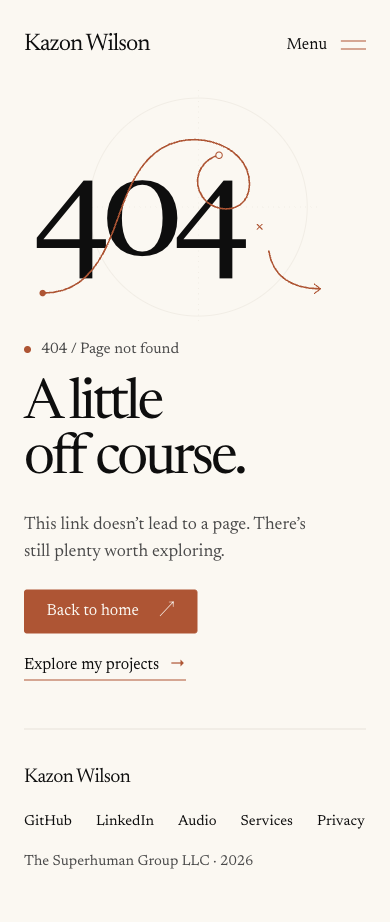
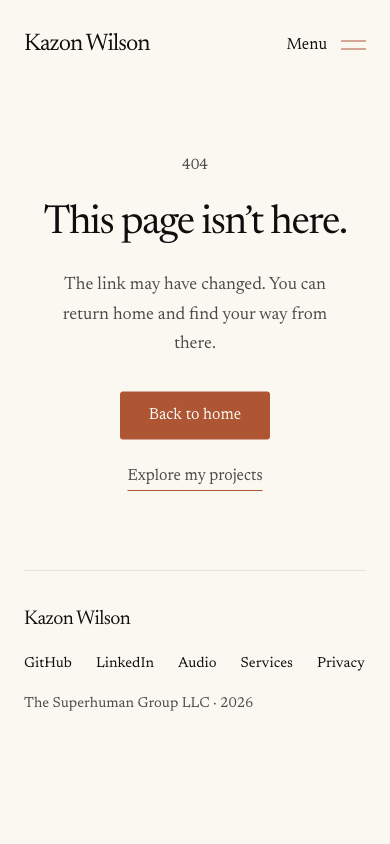
Make the 404 experience calm and reassuring

diff --git a/docs/prelaunch-qa-2026-09-15.md b/docs/prelaunch-qa-2026-09-15.md
@@ -28,3 +28,7 @@ Final branch validation: **204 unit tests pass**, Astro check reports zero error
 ![Branded 404](audits/2026-09-15/prelaunch/404-desktop.png)
 
 ![Privacy notice](audits/2026-09-15/prelaunch/privacy-desktop.png)
+
+## 404 visual direction
+
+The final revision follows the owner-approved goal of a peaceful, reassuring experience: familiar typography, generous space, a plain explanation and one primary way home. Removed the decorative route illustration and oversized error-code artwork. Desktop (1280px) and mobile (390px) screenshots above reflect this revision. HTTP 404, Astro checks and the production build were reverified.
